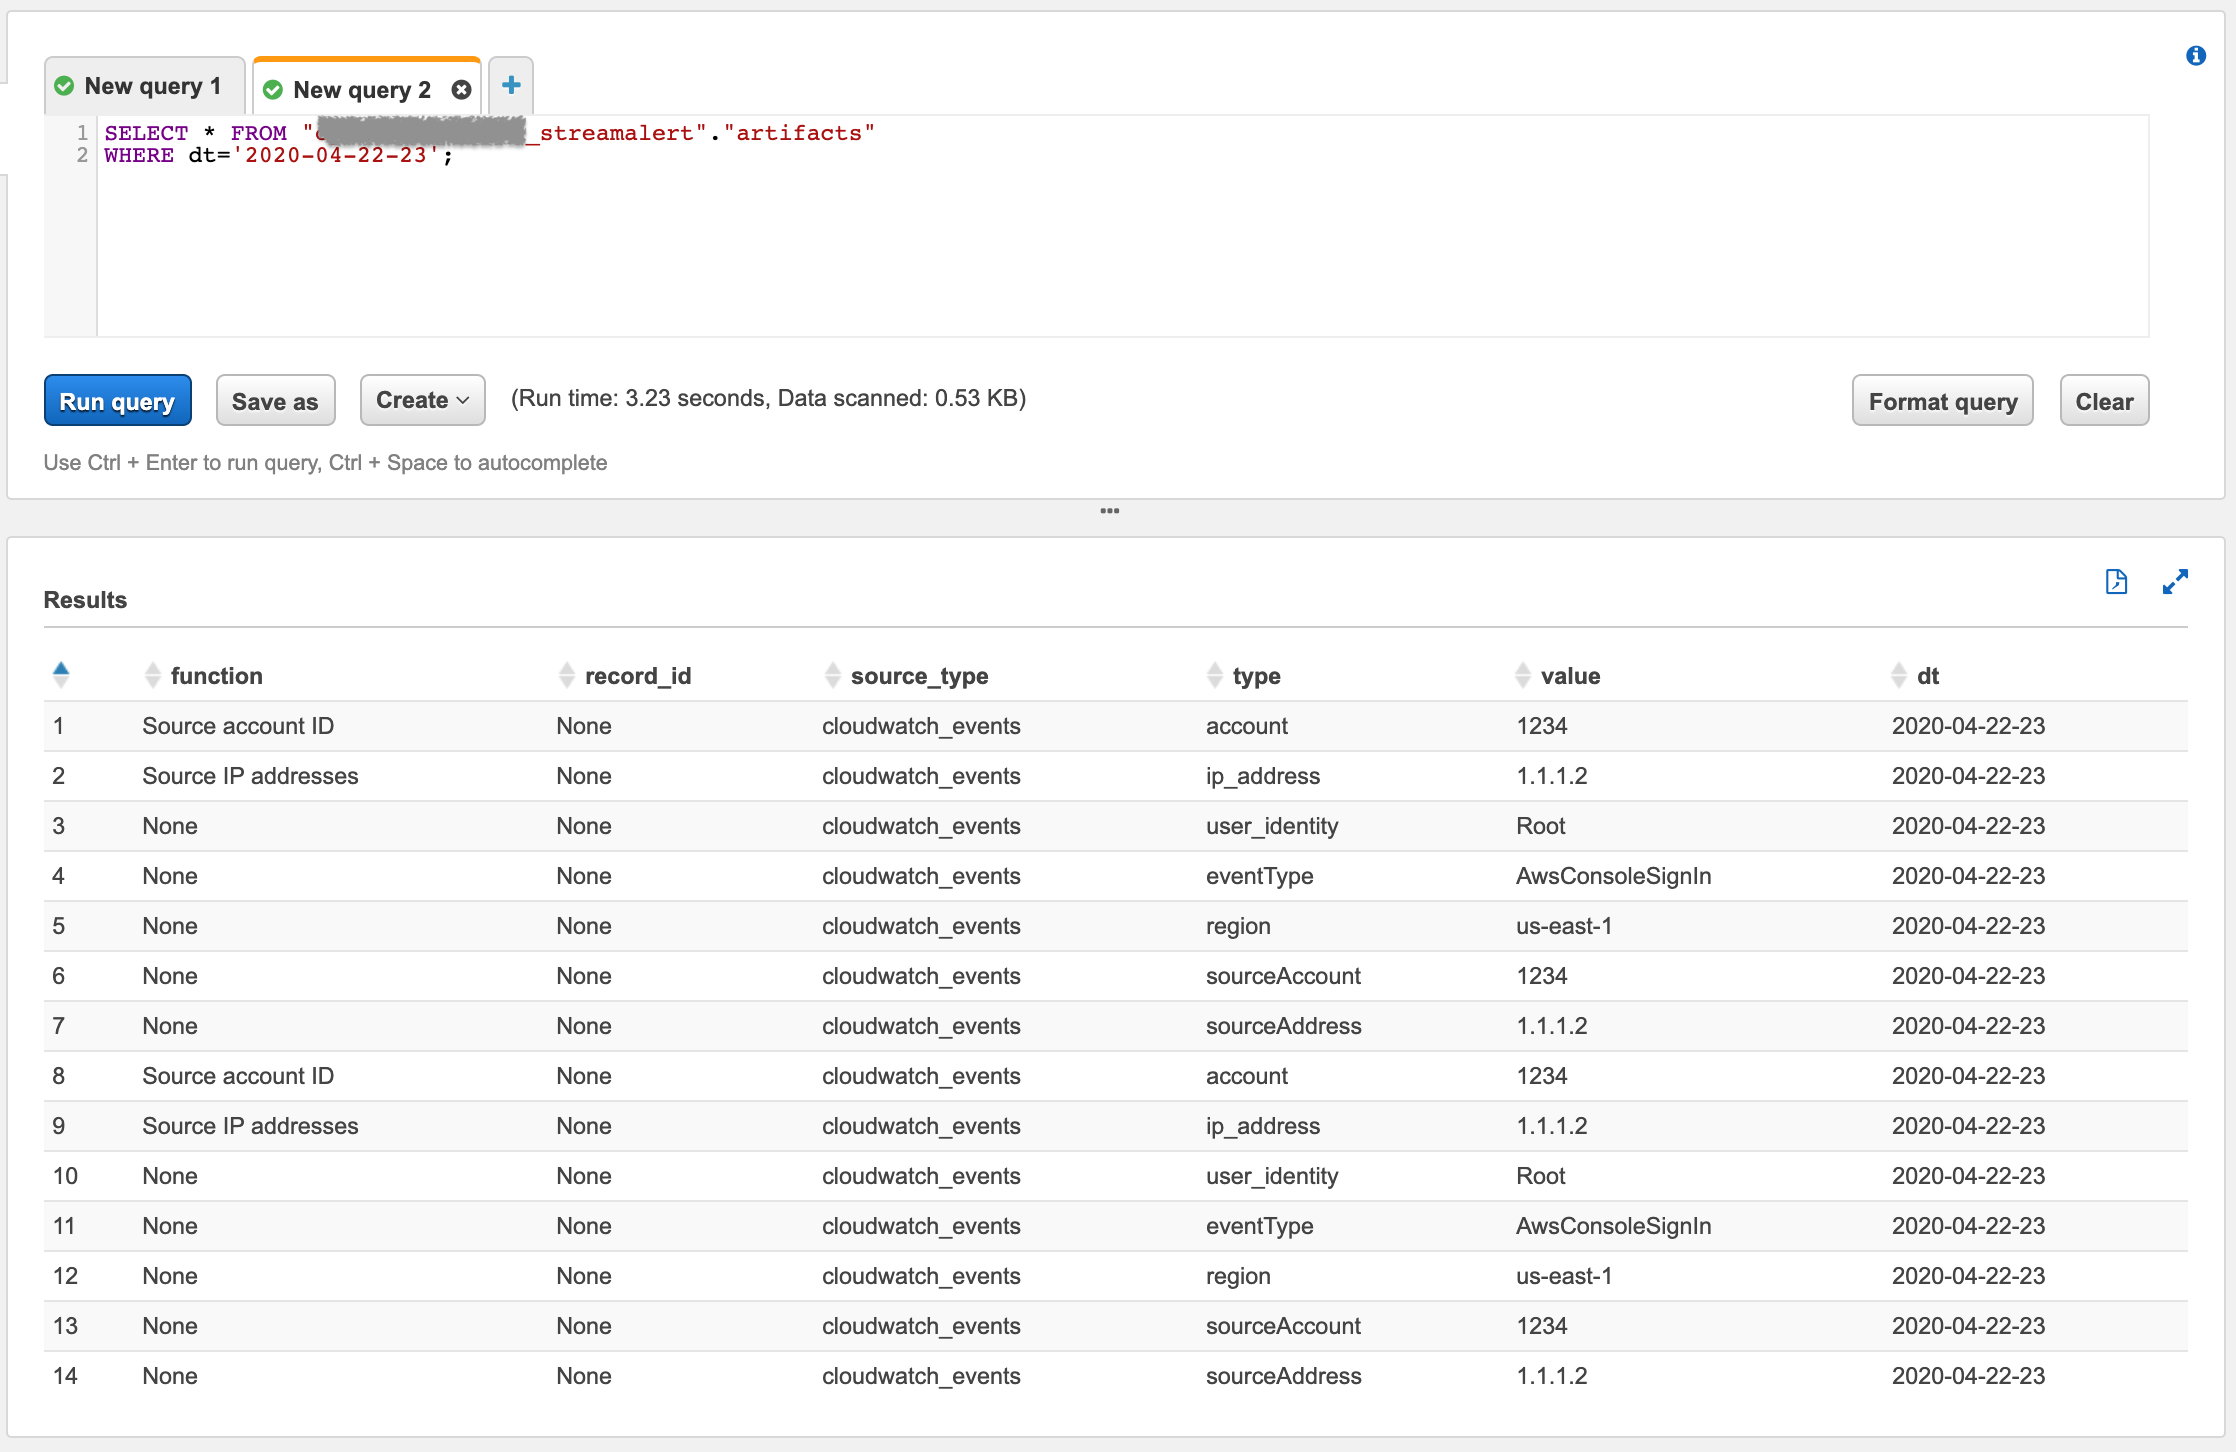
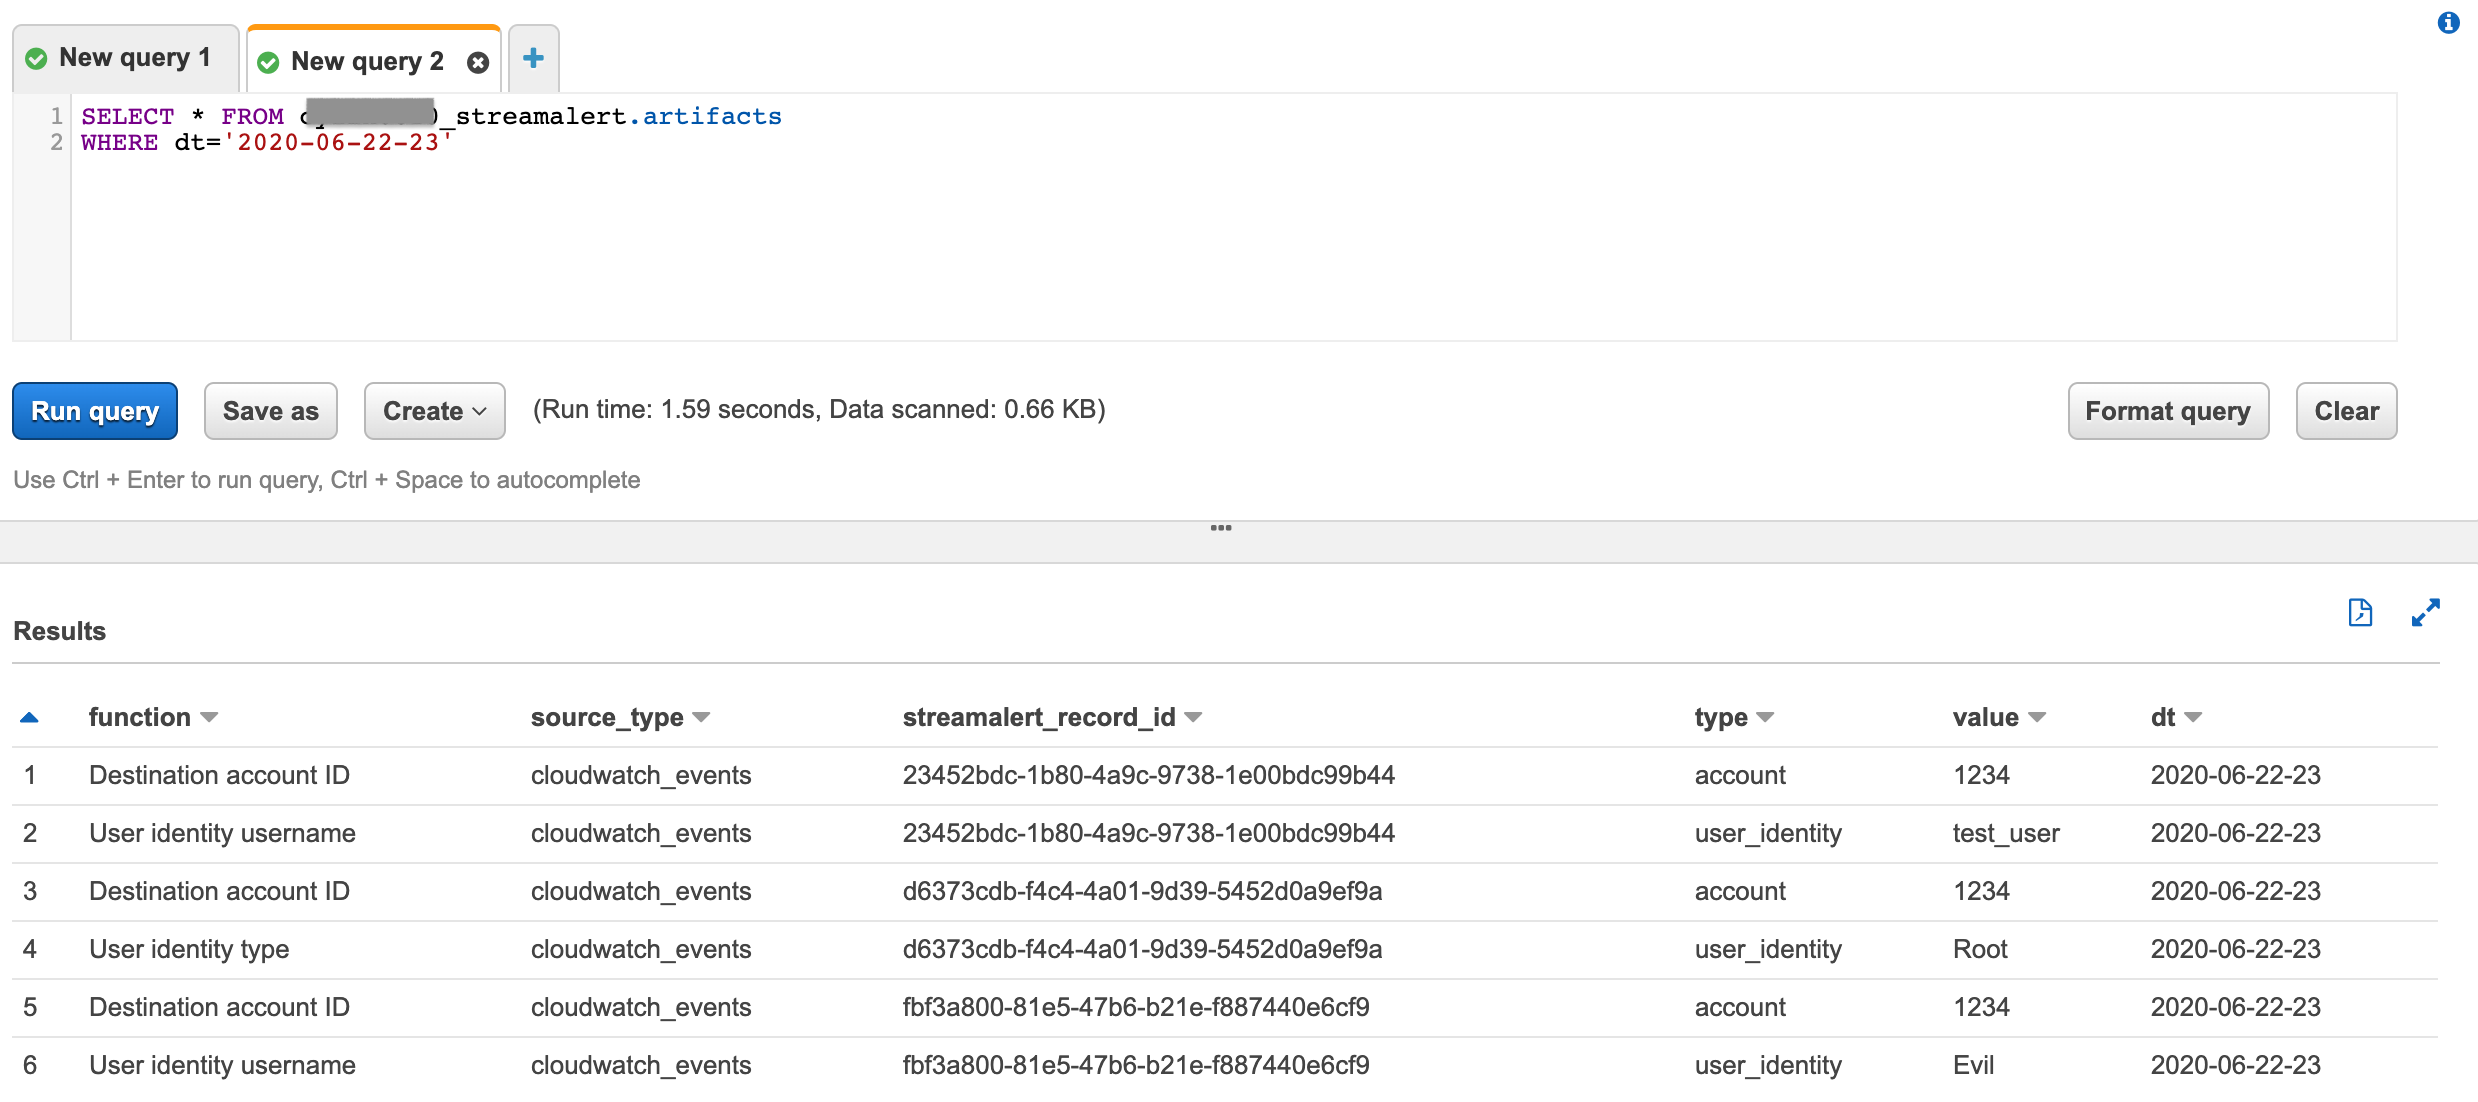
[docs] Update how to search artifacts table

diff --git a/docs/source/normalization.rst b/docs/source/normalization.rst
@@ -317,25 +317,116 @@ By default, the custom metrics is disabled. Enable custom metrics and follow by 
 Artifacts
 =========
 
-Artifacts will be searchable within the Athena ``artifacts`` table while original logs are still searchable within dedicated table.
+1. Artifacts will be searchable within the Athena ``artifacts`` table while original logs are still searchable within dedicated table.
 
-Search ``cloudwatch:events`` logs:
+  Search ``cloudwatch:events`` logs:
 
-.. figure:: ../images/cloudwatch_events.png
-  :alt: Testing Results from cloudwatch_events Table
-  :align: center
-  :target: _images/cloudwatch_events.png
+  .. code-block::
 
-  (click to enlarge)
+    SELECT *
+    FROM PREFIX_streamalert.cloudwatch_events
+    WHERE dt='2020-06-22-23'
 
-All artifacts, including artifacts extracted from ``cloudwatch:events``, will live in ``artifacts`` table.
+  .. figure:: ../images/cloudwatch_events.png
+    :alt: Testing Results from cloudwatch_events Table
+    :align: center
+    :target: _images/cloudwatch_events.png
 
-.. figure:: ../images/artifacts.png
-  :alt: Artifacts from artifacts Table
-  :align: center
-  :target: _images/artifacts.png
+    (click to enlarge)
 
-  (click to enlarge)
+2. All artifacts, including artifacts extracted from ``cloudwatch:events``, will live in ``artifacts`` table.
+
+  .. code-block::
+
+    SELECT *
+    FROM PREFIX_streamalert.artifacts
+    WHERE dt='2020-06-22-23'
+
+  .. figure:: ../images/artifacts.png
+    :alt: Artifacts from artifacts Table
+    :align: center
+    :target: _images/artifacts.png
+
+    (click to enlarge)
+
+3. (Advanced) Use join search to find original record associated to the artifacts by ``streamalert_record_id``
+
+  .. code-block::
+
+    SELECT artifacts.*,
+             cloudwatch.*
+    FROM
+        (SELECT streamalert_record_id AS record_id,
+             type,
+             value
+        FROM PREFIX_streamalert.artifacts
+        WHERE dt ='2020-06-22-23'
+                AND type='user_identity'
+                AND LOWER(value)='root' LIMIT 10) AS artifacts
+    LEFT JOIN
+        (SELECT streamalert_normalization['streamalert_record_id'] AS record_id, detail
+        FROM PREFIX_streamalert.cloudwatch_events
+        WHERE dt ='2020-06-22-23' LIMIT 10) AS cloudwatch
+        ON artifacts.record_id = cloudwatch.record_id
+
+  .. figure:: ../images/join_search.png
+    :alt: JOIN Search Result
+    :align: center
+    :target: _images/join_search.png
+
+    (click to enlarge)
+
+  .. note::
+
+    Instead issue two searches, we can use JOIN statement to search once across two tables to find the original record(s) associated with the interesting artifacts. This requires ``streamalert_normalization`` field where contains ``streamalert_record_id`` searchable in the original table. Current process is add ``streamalert_normalization`` field as a top level optional key to the schema.
+
+  * Update schema ``conf/schemas/cloudwatch.json``
+
+    .. code-block::
+
+      "cloudwatch:events": {
+        "schema": {
+          "account": "string",
+          "detail": {},
+          "detail-type": "string",
+          "id": "string",
+          "region": "string",
+          "resources": [],
+          "source": "string",
+          "streamalert_normalization": {},
+          "time": "string",
+          "version": "string"
+        },
+        "parser": "json",
+        "configuration": {
+          "optional_top_level_keys": [
+            "streamalert_normalization"
+          ],
+          "normalization": {
+            "user_identity": [
+              {
+                "path": ["detail", "userIdentity", "type"],
+                "function": "User identity type"
+              },
+              {
+                "path": ["detail", "userIdentity", "arn"],
+                "function": "User identity arn"
+              },
+              {
+                "path": ["detail", "userIdentity", "userName"],
+                "function": "User identity username"
+              }
+            ]
+          }
+        }
+      }
+
+  * Apply the change by running
+
+    .. code-block::
+
+      python manage.py build --target "kinesis_firehose_*"
+
 
 **************
 Considerations
